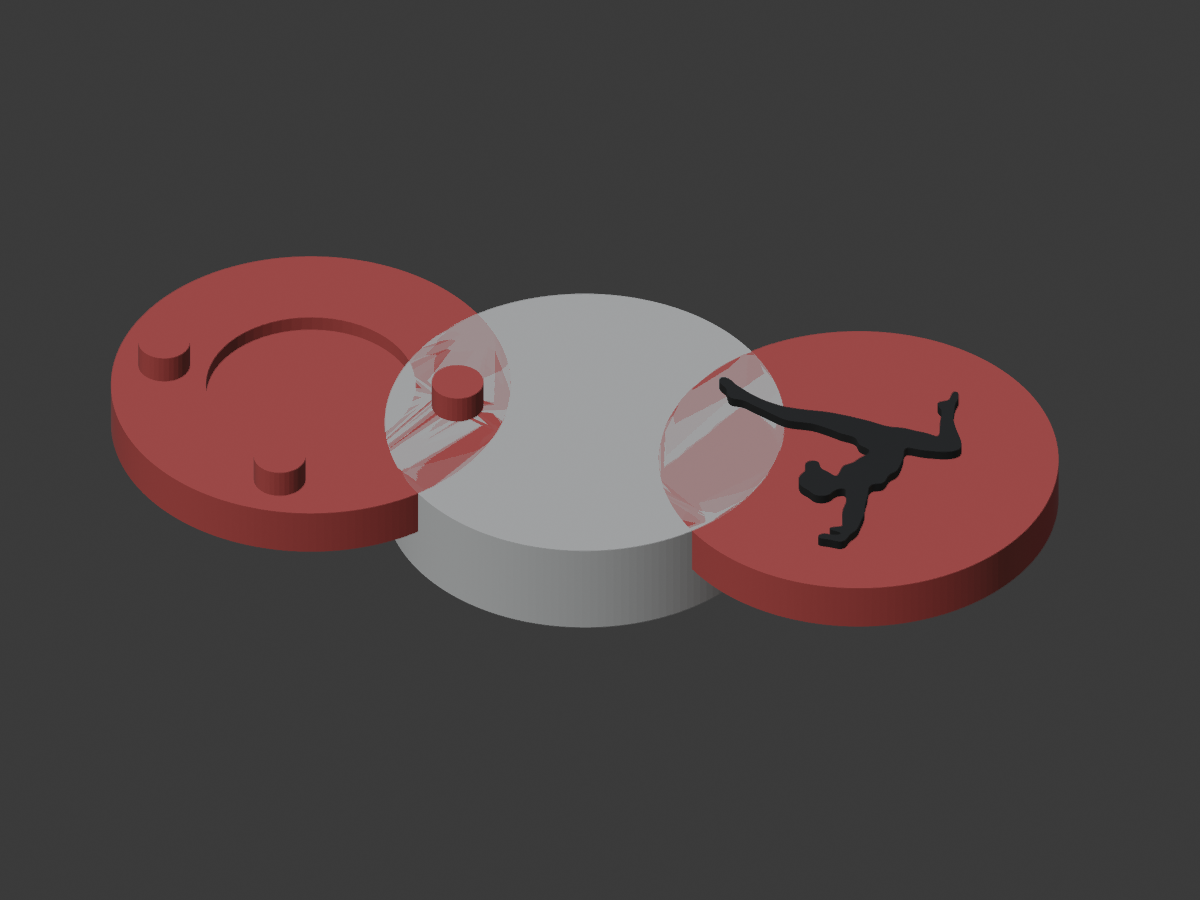
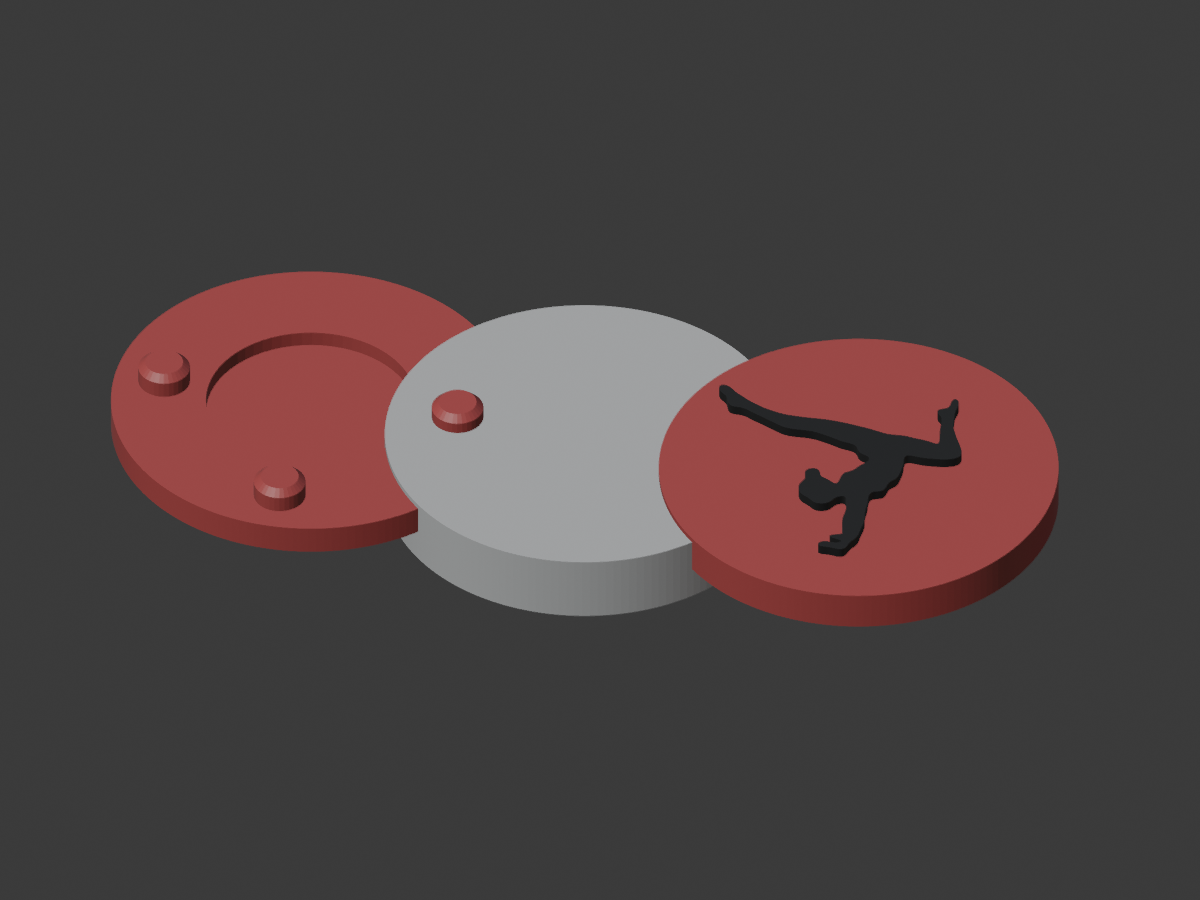
gymnast-medallion: chamfered peg tips + slimmer asymmetric halves
Pegs: keep the 2.6mm/0.05mm grip (it holds when seated — user forced them
together) and fix ENTRY only with a 0.35mm tip chamfer (shaft 1.30 -> tip
1.10mm radius) so each peg self-starts into its socket instead of catching on
the rim. Clearance NOT loosened.

Thinner: asymmetric halves — Bottom (back/NFC) 1.5mm, Top (figure/sockets) 2.0mm,
+0.5 relief = 4.0mm total (was 5.5). Top stays thicker so pegs keep length/grip;
string hole moves into the thick Top half (1.2mm, ~0.4mm walls) since the 1.5mm
Bottom can't host it. Peg height 1.2mm to fit the 2.0mm Top socket. All
watertight, hole verified open by ray cast, chamfer confirmed by section.

diff --git a/beads/gymnast-medallion/build_gymnast_medallion.py b/beads/gymnast-medallion/build_gymnast_medallion.py
@@ -22,29 +22,31 @@ FIGURE_JSON  = os.path.join(HERE, "figure.json")
 PRINT_DIR    = os.path.join(HERE, "print")
 
 TARGET_WIDTH = 20.0      # mm — bead diameter
-THICKNESS    = 5.0       # mm — total, split 2 x 2.5
 CIRCLE_VERTS = 160       # smoothness of the round base
 
-HOLE_DIAMETER = 2.0      # mm — string hole (X axis, through the body)
-HOLE_Y        = 7.0      # mm — top wall = R - HOLE_Y - HOLE_DIAMETER/2 = 10-7-1 = 2.0mm
-# filibertos-taco model: shift the hole ENTIRELY into ONE half (recipe gotcha
-# #23) so the seam has no half-groove. We put it in the BOTTOM half (negative)
-# so (a) the decorated Top stays fully solid under the figure, and (b) Bottom's
-# first print layer (its back face) is solid -> best bed adhesion. Hole center
-# lands at z=-1.25 (mid of the lower half), clear of the centered NFC pocket.
-HOLE_Z_OFFSET = -1.25    # mm — into Bottom half (THICKNESS/4)
+# ── Asymmetric halves (user: "shrink both, mostly the back") ──
+# The Top hosts the figure + the peg SOCKETS (so it must stay thick enough for
+# full-length pegs) and now the string hole; the Bottom only holds the shallow
+# NFC pocket + the peg bases, so it can be thinner. Body = 3.5mm + 0.5 relief =
+# 4.0mm total (was 5.5mm).
+TOP_THICK     = 2.0      # mm — figure side (sockets + string hole live here)
+BOTTOM_THICK  = 1.5      # mm — back/NFC side (thinner)
+BODY          = TOP_THICK + BOTTOM_THICK
+
+HOLE_DIAMETER = 1.2      # mm — string hole, Kandi elastic cord. Lives in the THICK
+HOLE_Y        = 7.0      # Top half (centered in its 2.0mm) — walls ~0.4mm, bridged.
 
 NFC_DIAMETER  = 10.5     # mm — NTAG215 pocket on bottom inner face
 NFC_DEPTH     = 0.8
 NFC_POS       = (0.0, 0.0)   # centered: pocket reaches y=5.25, clear of the hole at y=7
 
-# Snap-fit peg tuning from redaphid-portrait v5/v6 (adopted by filibertos-taco,
-# recipe gotcha #30): 2.0mm pegs were too narrow and 0.1mm clearance too loose
-# to grip — they "didn't fit together". 2.6mm dia + 0.05mm radial clearance is
-# the proven snap-fit on the Centauri Carbon 2.
+# Pegs: 2.6mm dia at 0.05mm clearance grips firmly (user confirmed it holds when
+# seated) — keep that. The problem was ENTRY: they had to be forced in. Add a
+# CHAMFERED TIP (lead-in taper) so each peg self-starts into its socket.
 PEG_DIAMETER  = 2.6
-PEG_HEIGHT    = 1.5
-PEG_CLEARANCE = 0.05
+PEG_HEIGHT    = 1.2      # shorter to fit the thinner Top's socket (depth = +0.3)
+PEG_CLEARANCE = 0.05     # radial — unchanged; grip is good, only entry needed help
+PEG_CHAMFER   = 0.35     # mm — tip taper height; tip radius shrinks by this much
 PEGS = [(-7.5, 0.0), (7.5, 0.0), (0.0, -7.5)]   # radius 7.5: ~0.95mm to NFC edge, 1.2mm to rim
 
 FIGURE_FIT_RADIUS = 9.0  # mm — scale figure so its farthest point is this from center (1mm rim)
@@ -117,24 +119,23 @@ def main():
     wipe()
     R = TARGET_WIDTH / 2.0
 
-    # ── round base, centered on z=0 (z in -T/2 .. +T/2) ──
-    full = add_cylinder(R, THICKNESS, (0, 0, 0), verts=CIRCLE_VERTS)
+    # ── round base, centered on z=0 (z in -BODY/2 .. +BODY/2) ──
+    full = add_cylinder(R, BODY, (0, 0, 0), verts=CIRCLE_VERTS)
     full.name = "FullBead"
     clean_mesh(full)
+    z_min, z_max = -BODY / 2.0, BODY / 2.0
+    z_split = z_min + BOTTOM_THICK          # asymmetric seam: Bottom below, Top above
+    top_mid = (z_split + z_max) / 2.0        # center of the (thicker) Top half
 
-    # ── string hole (X axis, through the body) — offset into one half ──
-    zs0 = [v.co.z for v in full.data.vertices]
-    z_hole = (min(zs0) + max(zs0)) / 2.0 + HOLE_Z_OFFSET
-    print(f"String hole d={HOLE_DIAMETER} at Y={HOLE_Y} z={z_hole:.2f} (offset {HOLE_Z_OFFSET:+.2f} -> "
-          f"{'Bottom' if HOLE_Z_OFFSET < 0 else 'Top'} half)")
+    # ── string hole (X axis) — in the THICK Top half, centered in its thickness ──
+    z_hole = top_mid
+    print(f"String hole d={HOLE_DIAMETER} at Y={HOLE_Y} z={z_hole:.2f} (in Top half, "
+          f"walls ~{(TOP_THICK - HOLE_DIAMETER) / 2:.2f}mm)")
     cut = add_cylinder(HOLE_DIAMETER / 2.0, TARGET_WIDTH * 2,
                        (0, HOLE_Y, z_hole), rotation=(0, math.radians(90), 0), verts=48)
     boolean_op(full, cut, 'DIFFERENCE', "Hole")
     clean_mesh(full)
-    zs = [v.co.z for v in full.data.vertices]
-    z_min, z_max = min(zs), max(zs)
-    z_mid = (z_min + z_max) / 2.0
-    print(f"Z: {z_min:.2f}..{z_max:.2f} mid={z_mid:.2f}")
+    print(f"Z: {z_min:.2f}..{z_max:.2f}  seam={z_split:.2f}  (Bottom {BOTTOM_THICK} / Top {TOP_THICK})")
 
     # ── peg + NFC perimeter sanity (circle is convex, but verify anyway) ──
     deps = bpy.context.evaluated_depsgraph_get(); ev = full.evaluated_get(deps)
@@ -162,9 +163,9 @@ def main():
         clean_mesh(h, 0.01)
         return h
 
-    bottom = half("Bottom", z_min, z_mid)
+    bottom = half("Bottom", z_min, z_split)
     print(f"Bottom non-manifold: {check_nonmanifold(bottom)}")
-    top = half("Top", z_mid, z_max)
+    top = half("Top", z_split, z_max)
     print(f"Top non-manifold: {check_nonmanifold(top)}")
 
     # ── NFC pocket on Bottom inner face ──
@@ -186,13 +187,23 @@ def main():
     for i, (px, py) in enumerate(PEGS):
         verify_hole(top, Vector((px, py, t_z_min - 2)), Vector((0, 0, 1)), f"peg hole {i}")
 
-    # ── pegs on Bottom inner face (UNION) ──
+    # ── pegs on Bottom inner face (UNION) — full shaft + chamfered tip ──
+    # The shaft (full PEG_DIAMETER) does the gripping; the tip tapers down over
+    # PEG_CHAMFER so the peg self-starts into the socket instead of catching on
+    # the rim and needing to be forced.
     b_z_max = max(v.co.z for v in bottom.data.vertices)
+    peg_r = PEG_DIAMETER / 2.0
+    shaft_h = PEG_HEIGHT - PEG_CHAMFER
     for i, (px, py) in enumerate(PEGS):
-        cyl = add_cylinder(PEG_DIAMETER / 2.0, PEG_HEIGHT, (px, py, b_z_max + PEG_HEIGHT / 2.0), verts=32)
+        cyl = add_cylinder(peg_r, shaft_h, (px, py, b_z_max + shaft_h / 2.0), verts=32)
         boolean_op(bottom, cyl, 'UNION', f"Peg{i}")
+        # chamfer tip: frustum from full radius up to (full - PEG_CHAMFER)
+        bpy.ops.mesh.primitive_cone_add(
+            vertices=32, radius1=peg_r, radius2=max(peg_r - PEG_CHAMFER, 0.2),
+            depth=PEG_CHAMFER, location=(px, py, b_z_max + shaft_h + PEG_CHAMFER / 2.0))
+        boolean_op(bottom, bpy.context.active_object, 'UNION', f"PegTip{i}")
     clean_mesh(bottom)
-    print(f"Bottom after pegs non-manifold: {check_nonmanifold(bottom)}")
+    print(f"Bottom after chamfered pegs non-manifold: {check_nonmanifold(bottom)}")
 
     # ── Decoration: gymnast relief on Top show face ──
     deco = build_decoration(z_max)

diff --git a/beads/gymnast-medallion/README.md b/beads/gymnast-medallion/README.md
@@ -24,10 +24,10 @@ primitive instead of importing a circle SVG.
 | Feature | Value | Notes |
 |---|---|---|
 | Diameter | 20 mm | ~30% under 25 mm; floor is ~17 mm (NTAG215 pocket + pegs + walls). Rim wall ~2 mm. |
-| Thickness | 5.0 mm + 0.5 mm relief | 2.5 mm bottom + 2.5 mm top + 0.5 mm raised figure = 5.5 mm total |
-| String hole | 2 mm dia, X axis, Y = +7 | Entirely in the **Bottom** half (HOLE_Z_OFFSET = −1.25), filibertos-taco model. No seam groove; Top stays solid under the figure; Bottom's first print layer (back face) is solid. Tube walls 0.25 mm top/bottom (verified open by ray cast). |
-| NFC pocket | 10.5 mm dia × 0.8 mm, centered (0,0) | NTAG215, on the bottom inner face; clear of the y=7 hole (pocket reaches y=5.25). |
-| Pegs | 3 × **2.6 mm** dia × 1.5 mm at radius 7.5, **0.05 mm** clearance | (−7.5,0)(7.5,0)(0,−7.5); 0.95 mm to NFC edge, 1.2 mm to rim, 0/8 perimeter clip. Snap-fit tuning from redaphid-portrait v5/v6 (gotcha #30) — 2.0 mm/0.1 mm was too narrow + loose to grip. |
+| Thickness | **asymmetric: 1.5 mm bottom + 2.0 mm top + 0.5 mm relief = 4.0 mm** | Slimmed from 5.5 mm. Back/NFC half (Bottom) is the thin one; the figure/socket half (Top) stays thicker so pegs keep length + grip. |
+| String hole | 1.2 mm dia, X axis, Y = +7 | Now in the **Top** (thick) half, centered in its 2.0 mm (walls ~0.4 mm, bridged). Moved here because thinning the Bottom left it too thin to host a hole. Verified open by ray cast (void z 0.4–1.6). |
+| NFC pocket | 10.5 mm dia × 0.8 mm, centered (0,0) | NTAG215, on the bottom inner face; 0.7 mm floor under the pocket in the 1.5 mm half. |
+| Pegs | 3 × **2.6 mm** dia × 1.2 mm at radius 7.5, **0.05 mm** clearance, **chamfered tips** | (−7.5,0)(7.5,0)(0,−7.5); 0.95 mm to NFC edge. 2.6 mm/0.05 mm grips firmly (held when forced); a 0.35 mm tip chamfer (shaft 1.30 → tip 1.10 mm radius) lets each peg self-start into the socket instead of catching and needing force. |
 | Figure relief | 0.5 mm proud, scaled to fit radius 9 | Whole figure fits inside the circle (no clipped limbs); lifted 0.01 mm to avoid Z-fight |
 
 ## Key decisions / tradeoffs
@@ -38,8 +38,9 @@ primitive instead of importing a circle SVG.
 | Figure scaled to *fit radius 9*, not "longest side" | The handstand sprawls (extended leg); scaling by max radial extent guarantees the whole figure sits inside the circle so no limb is clipped at the rim. Cost: the compact body ends up ~14 mm across — smaller than the bead, with a margin ring. |
 | Relief is a plain extruded polygon | The figure is a filled shape (not a tube), so the rezz "flat ribbon" workaround (gotcha #9) isn't needed — a simple ngon extrude is manifold. Thin limbs are fine here: they sit on the solid top face, unlike the standalone charms. |
 | No decoration crop boolean | The figure is fully inside radius 9 < the 10 mm circle, so cropping (gotcha #26) is unnecessary — skipped to avoid fragmenting thin limbs. |
-| String hole in one half (Bottom), not the split plane | The **filibertos-taco model** (recipe gotcha #23). v1 put the hole on the seam → half-groove on each inner face. Moving it fully into the Bottom keeps the seam clean, the decorated Top solid, and gives Bottom a solid first layer. Cost: 0.25 mm tube walls top/bottom (printable; bump THICKNESS if it fails). |
-| Snap-fit pegs: 2.6 mm dia, 0.05 mm clearance | v1 used the recipe-default 2.0 mm / 0.1 mm and **the pegs didn't grip** ("didn't fit together"). redaphid-portrait v5/v6 (adopted by filibertos) proved 2.6 mm + 0.05 mm radial clearance is the actual snap-fit on the Centauri Carbon 2 (gotcha #30). |
+| Asymmetric halves (thin Bottom, thick Top) | User wanted it slimmer "but mostly the back". The Top must stay thick — it hosts the peg sockets (so pegs keep length/grip) and now the string hole. The Bottom only holds the shallow NFC pocket + peg bases, so it drops to 1.5 mm. The seam is off-center (z = −0.25 on a 3.5 mm body). |
+| String hole in the THICK (Top) half | filibertos-taco single-half model (gotcha #23) — no seam groove. v2 had it in the Bottom, but thinning the Bottom to 1.5 mm left no room for a hole, so it moved to the 2.0 mm Top. Shrunk to 1.2 mm (Kandi cord) for ~0.4 mm walls. Cost: a 0.4 mm wall under the figure at y=7 (bridged, printable). |
+| Snap-fit pegs: 2.6 mm / 0.05 mm + chamfered tip | The 2.6 mm/0.05 mm grip (gotcha #30) holds firmly — it held once *forced* together. The real problem was ENTRY: blunt peg tips caught on the socket rim. A 0.35 mm tip chamfer fixes self-start without touching the (good) grip diameter. Clearance deliberately NOT loosened. |
 
 ## What's transferable / specific
 